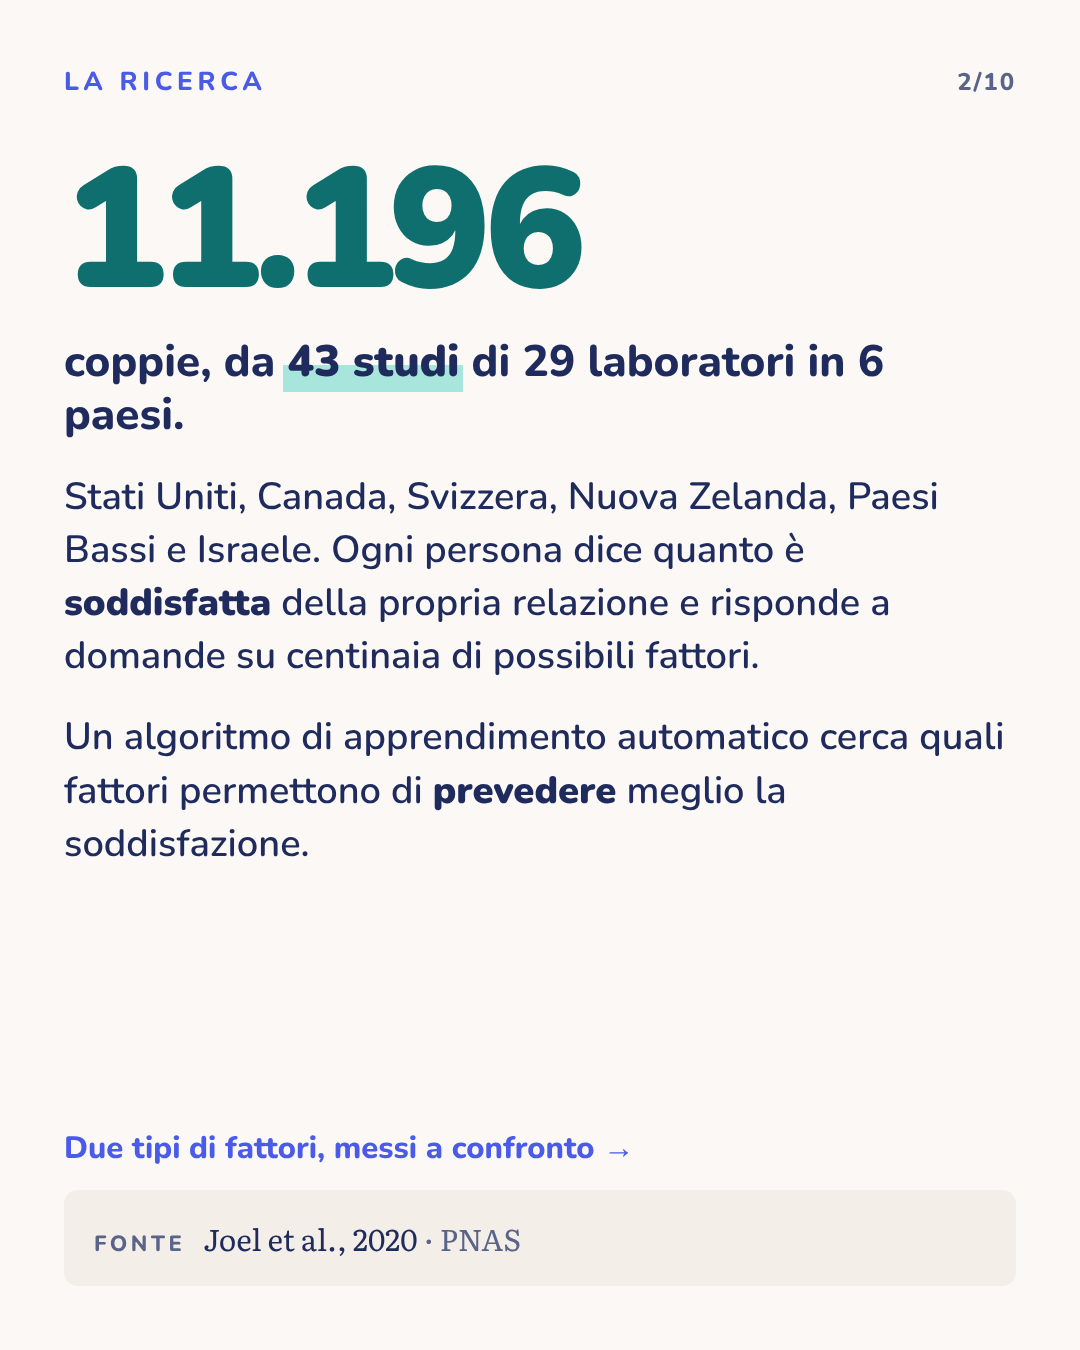
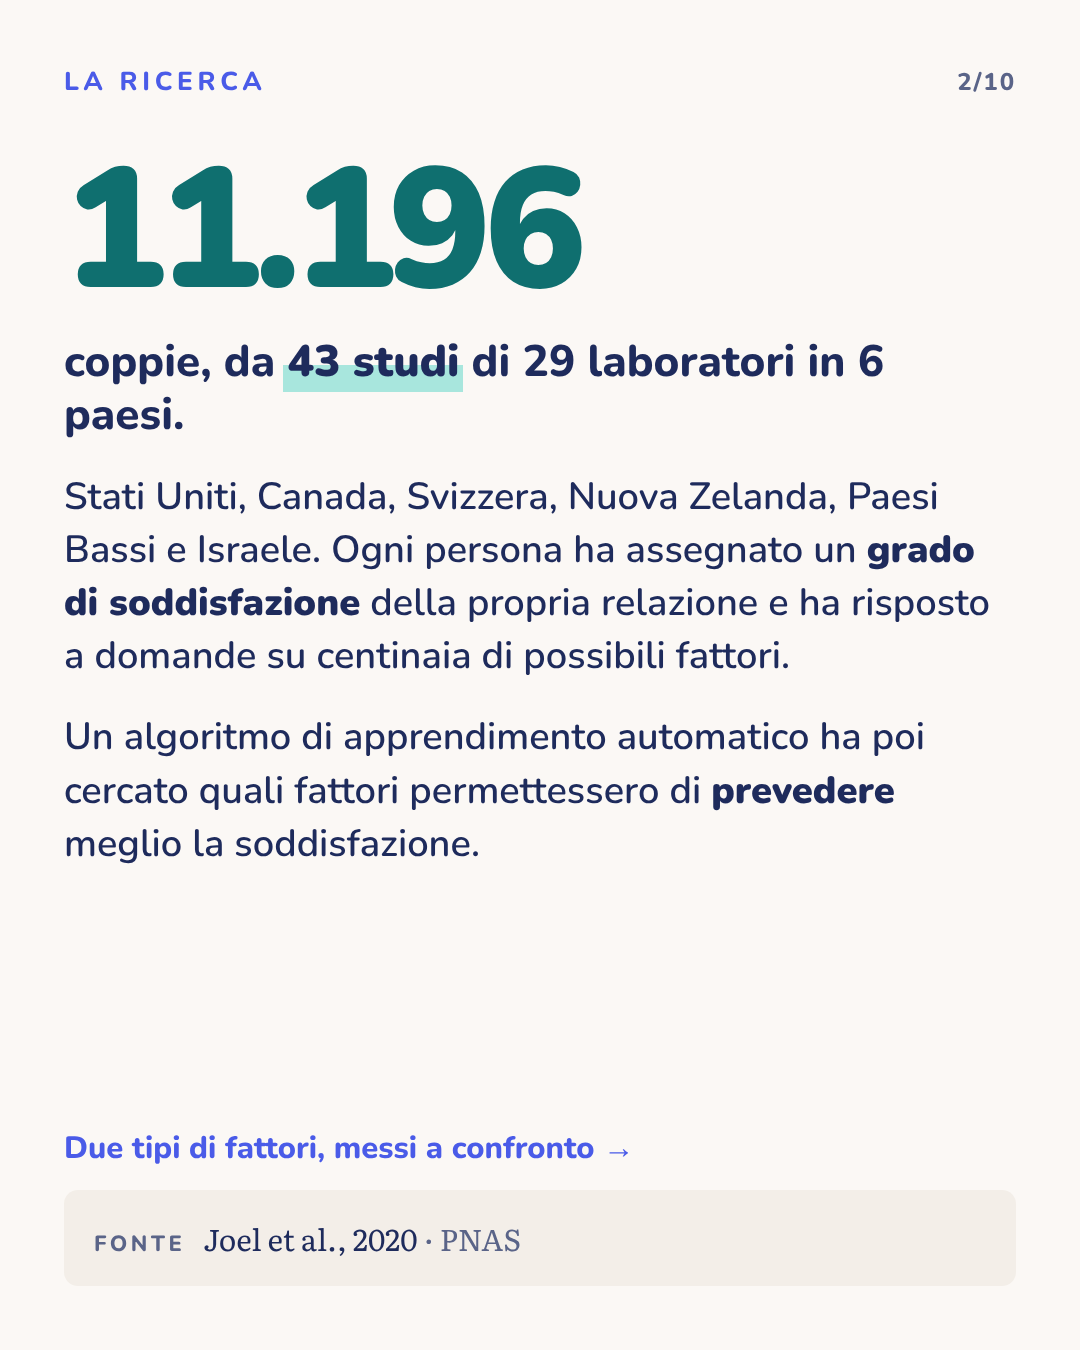
Carosello coppia: nuovo testo della slide 2
Claude-Session: https://claude.ai/code/session_01KYQeP73Zvn8PeP6zhkL2Sc

Changed region(s): [[0.0611, 0.4044, 0.9167, 0.4978], [0.0611, 0.5289, 0.9472, 0.6533]]

diff --git a/carosselli/coppia/slides.html b/carosselli/coppia/slides.html
@@ -128,8 +128,8 @@ svg.shape{position:absolute;z-index:1}
   <div class="stack" style="margin-top:56px;gap:28px">
     <p class="big" style="font-size:170px">11.196</p>
     <p class="biglabel">coppie, da <span class="hl t">43 studi</span> di 29 laboratori in 6 paesi.</p>
-    <p class="mid">Stati Uniti, Canada, Svizzera, Nuova Zelanda, Paesi Bassi e Israele. Ogni persona dice quanto è <b>soddisfatta</b> della propria relazione e risponde a domande su centinaia di possibili fattori.</p>
-    <p class="mid">Un algoritmo di apprendimento automatico cerca quali fattori permettono di <b>prevedere</b> meglio la soddisfazione.</p>
+    <p class="mid">Stati Uniti, Canada, Svizzera, Nuova Zelanda, Paesi Bassi e Israele. Ogni persona ha assegnato un <b>grado di soddisfazione</b> della propria relazione e ha risposto a domande su centinaia di possibili fattori.</p>
+    <p class="mid">Un algoritmo di apprendimento automatico ha poi cercato quali fattori permettessero di <b>prevedere</b> meglio la soddisfazione.</p>
   </div>
   <p class="next">Due tipi di fattori, messi a confronto →</p>
   <div class="src"><b>FONTE</b><span><em>Joel et al., 2020</em> · PNAS</span></div>

diff --git a/carosselli/coppia/body.html b/carosselli/coppia/body.html
@@ -53,8 +53,8 @@
   <div class="stack" style="margin-top:56px;gap:28px">
     <p class="big" style="font-size:170px">11.196</p>
     <p class="biglabel">coppie, da <span class="hl t">43 studi</span> di 29 laboratori in 6 paesi.</p>
-    <p class="mid">Stati Uniti, Canada, Svizzera, Nuova Zelanda, Paesi Bassi e Israele. Ogni persona dice quanto è <b>soddisfatta</b> della propria relazione e risponde a domande su centinaia di possibili fattori.</p>
-    <p class="mid">Un algoritmo di apprendimento automatico cerca quali fattori permettono di <b>prevedere</b> meglio la soddisfazione.</p>
+    <p class="mid">Stati Uniti, Canada, Svizzera, Nuova Zelanda, Paesi Bassi e Israele. Ogni persona ha assegnato un <b>grado di soddisfazione</b> della propria relazione e ha risposto a domande su centinaia di possibili fattori.</p>
+    <p class="mid">Un algoritmo di apprendimento automatico ha poi cercato quali fattori permettessero di <b>prevedere</b> meglio la soddisfazione.</p>
   </div>
   <p class="next">Due tipi di fattori, messi a confronto →</p>
   <div class="src"><b>FONTE</b><span><em>Joel et al., 2020</em> · PNAS</span></div>

diff --git a/carosselli/coppia/kit-pubblicazione-coppia.md b/carosselli/coppia/kit-pubblicazione-coppia.md
@@ -41,7 +41,7 @@ Come abbiamo letto i numeri: «45%» e «21%» sono le quote massime di varianza
 ## Testo alternativo (una riga per immagine)
 
 1. Copertina WeSelf: due linee, una verde e una blu, partono distanti, si incrociano più volte e poi proseguono vicine, con piccoli punti arancioni lungo il percorso. Testo: «Una coppia felice si costruisce, giorno per giorno. Molte persone pensano che tutto dipenda dal trovare la persona giusta. Una ricerca su oltre 11.000 coppie guarda che cosa conta davvero.»
-2. La ricerca: 11.196 coppie, da 43 studi di 29 laboratori in 6 paesi (Stati Uniti, Canada, Svizzera, Nuova Zelanda, Paesi Bassi e Israele). Ogni persona dice quanto è soddisfatta della relazione e risponde a domande su centinaia di fattori; un algoritmo cerca quali permettono di prevederla meglio.
+2. La ricerca: 11.196 coppie, da 43 studi di 29 laboratori in 6 paesi (Stati Uniti, Canada, Svizzera, Nuova Zelanda, Paesi Bassi e Israele). Ogni persona ha assegnato un grado di soddisfazione della propria relazione e ha risposto a domande su centinaia di possibili fattori; un algoritmo di apprendimento automatico ha poi cercato quali fattori permettessero di prevedere meglio la soddisfazione.
 3. Che cosa confrontano: le caratteristiche personali (personalità, età, genere, umore, soddisfazione per la vita, il modo di legarsi agli altri) e il modo di vivere la relazione (sentirsi apprezzati, apprezzare l'altro, sentirlo impegnato, i conflitti, l'intimità).
 4. I numeri: il modo di vivere la relazione permette di prevedere fino al 45% delle differenze di soddisfazione, le caratteristiche personali fino al 21%. Sapere come una persona vive la relazione dice molto di più su quanto è felice in coppia che sapere com'è fatta.
 5. Le sorprese: le caratteristiche personali non aggiungono nulla una volta noto come si vive la relazione; le risposte del partner non aggiungono nulla, e le proprie percezioni contano da due a quattro volte di più; avere figli, vivere insieme, essere sposati, genere, origine etnica e istruzione contano poco, tranne la durata della relazione.
